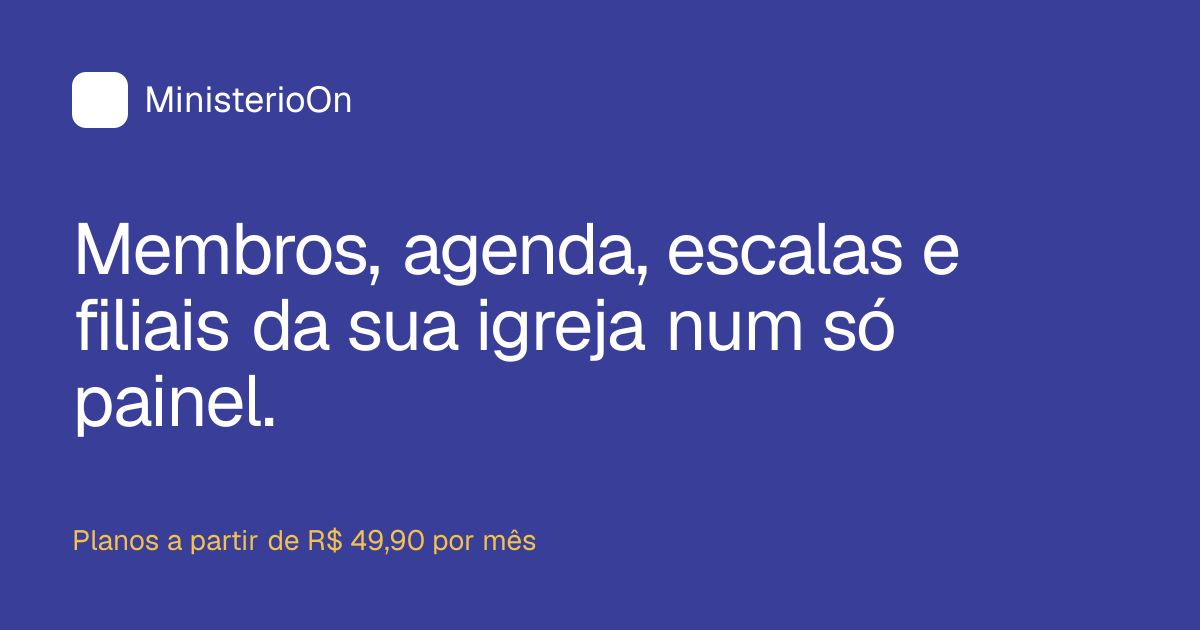
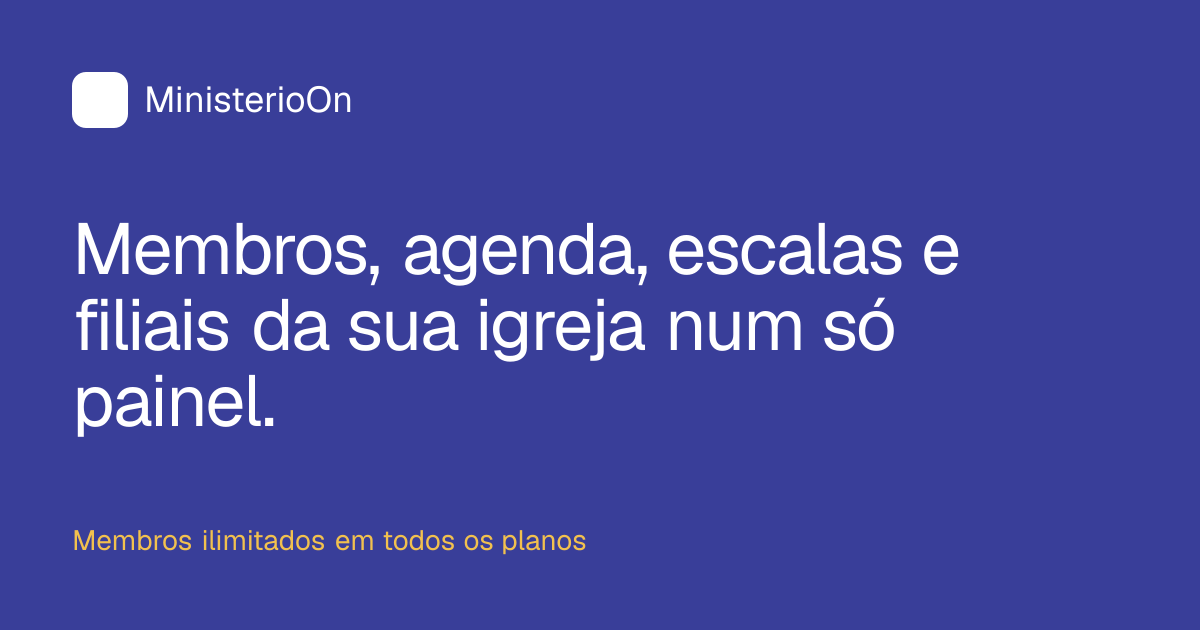
feat: aplica tabela oficial de planos (Starter, Pro, Premium, Enterprise)
Preços por ciclo, limites de administradores e filiais e taxas de implantação conforme tabela_precos_ministerioon.pdf.

Changed region(s): [[0.0617, 0.8444, 0.4933, 0.8746]]

diff --git a/src/components/Pricing.tsx b/src/components/Pricing.tsx
@@ -2,10 +2,24 @@
 
 import { useState } from "react";
 import { Check } from "lucide-react";
-import { brl, cycles, perMonth, plans, savingsPct, type Cycle } from "@/lib/plans";
+import { brl, cycles, perMonth, plans, savingsPct, type Cycle, type Plan } from "@/lib/plans";
 import { track } from "@/lib/analytics";
 import { whatsappUrl } from "@/lib/whatsapp";
 import { WhatsAppIcon } from "./WhatsAppButton";
+
+function limitText(n: number | "ilimitado", one: string, many: string) {
+  if (n === "ilimitado") return `${many[0].toUpperCase()}${many.slice(1)} ilimitados`;
+  if (n === 0) return `Sem ${many}`;
+  return `${n} ${n === 1 ? one : many}`;
+}
+
+function features(plan: Plan) {
+  return [
+    "Membros ilimitados",
+    limitText(plan.admins, "administrador", "administradores"),
+    plan.branches === 0 ? "Uma unidade (sem filiais)" : limitText(plan.branches, "filial ou congregação", "filiais ou congregações"),
+  ];
+}
 
 export function Pricing() {
   const [cycle, setCycle] = useState<Cycle>("anual");
@@ -27,7 +41,7 @@ export function Pricing() {
                   onChange={() => setCycle(c.id)}
                   className="peer sr-only"
                 />
-                <span className="block rounded-full px-2 py-2 text-[13px] sm:px-4 sm:text-sm font-semibold text-ink-soft transition-colors peer-checked:bg-indigo peer-checked:text-white peer-focus-visible:outline-3 peer-focus-visible:outline-gold">
+                <span className="block rounded-full px-2 py-2 text-[13px] font-semibold text-ink-soft transition-colors peer-checked:bg-indigo peer-checked:text-white peer-focus-visible:outline-3 peer-focus-visible:outline-gold sm:px-4 sm:text-sm">
                   {c.label}
                 </span>
               </label>
@@ -35,47 +49,65 @@ export function Pricing() {
           </div>
         </fieldset>
         <p className="text-sm text-ink-soft" aria-live="polite">
-          {cycle === "mensal"
-            ? "Pagamento mês a mês."
-            : `No ${cycleInfo.label.toLowerCase()} você paga ${savingsPct(plans[0], cycle)}% menos que no mensal.`}
+          {cycle === "mensal" ? "Pagamento mês a mês." : `Valor mensal equivalente no ciclo ${cycleInfo.label.toLowerCase()}.`}
         </p>
       </div>
 
-      <ul className="mt-8 grid gap-4 md:grid-cols-2 xl:grid-cols-5">
+      <ul className="mt-8 grid gap-4 md:grid-cols-2 xl:grid-cols-4">
         {plans.map((plan) => {
           const featured = Boolean(plan.highlight);
-          const total = plan.prices[cycle];
-          const msg = `Olá! Vim pelo site e tenho interesse no plano ${plan.name} (${cycleInfo.label.toLowerCase()}, ${brl(total)}). Pode me explicar os próximos passos?`;
+          const total = plan.prices?.[cycle];
+          const monthly = perMonth(plan, cycle);
+          const save = savingsPct(plan, cycle);
+          const msg = plan.prices
+            ? `Olá! Vim pelo site e tenho interesse no plano ${plan.name} (${cycleInfo.label.toLowerCase()}, ${brl(total!)}). Pode me explicar os próximos passos?`
+            : `Olá! Vim pelo site e quero uma proposta do plano ${plan.name} para a nossa rede de igrejas.`;
           const href = whatsappUrl(msg);
+          const label = plan.prices ? `Escolher ${plan.name}` : "Pedir proposta";
+          const muted = featured ? "text-white/75" : "text-ink-soft";
           return (
             <li
               key={plan.id}
-              className={`relative flex flex-col rounded-2xl p-6 xl:p-5 ${
+              className={`relative flex flex-col rounded-2xl p-6 ${
                 featured ? "bg-indigo text-white shadow-[0_30px_60px_-30px_rgba(57,62,153,0.8)]" : "bg-white ring-1 ring-line"
               }`}
             >
               {plan.highlight && (
-                <p className="mb-3 self-start rounded-full bg-gold px-3 py-1 text-xs font-bold text-ink">
-                  {plan.highlight}
-                </p>
+                <p className="mb-3 self-start rounded-full bg-gold px-3 py-1 text-xs font-bold text-ink">{plan.highlight}</p>
               )}
               <h3 className="display text-2xl font-bold">{plan.name}</h3>
-              <p className={`mt-2 min-h-[4.5rem] text-sm leading-relaxed ${featured ? "text-white/80" : "text-ink-soft"}`}>
-                {plan.forWho}
-              </p>
+              <p className={`mt-2 min-h-[3rem] text-sm leading-relaxed ${muted}`}>{plan.forWho}</p>
 
-              <div className="mt-5">
-                <p className="text-3xl font-extrabold whitespace-nowrap tabular-nums xl:text-[1.65rem]">
-                  {brl(perMonth(plan, cycle))}
-                  <span className={`text-sm font-medium ${featured ? "text-white/70" : "text-ink-soft"}`}>/mês</span>
-                </p>
-                <p className={`mt-1 text-xs ${featured ? "text-white/70" : "text-ink-soft"}`}>
-                  {cycle === "mensal" ? "Cobrança mensal" : `${brl(total)} a cada ${cycleInfo.months} meses`}
-                </p>
-                <p className={`mt-1 text-xs ${featured ? "text-white/70" : "text-ink-soft"}`}>
-                  {plan.setupFee ? `+ implantação única de ${brl(plan.setupFee)}` : "Sem taxa de implantação"}
+              <div className="mt-5 min-h-[6.5rem]">
+                {monthly !== null && total !== undefined ? (
+                  <>
+                    <p className="text-3xl font-extrabold whitespace-nowrap tabular-nums">
+                      {brl(monthly)}
+                      <span className={`text-sm font-medium ${muted}`}>/mês</span>
+                    </p>
+                    <p className={`mt-1 text-xs ${muted}`}>
+                      {cycle === "mensal" ? "Cobrança mensal" : `${brl(total)} a cada ${cycleInfo.months} meses`}
+                      {save > 0 && <span className={featured ? "font-semibold text-gold" : "font-semibold text-ok"}> · {save}% a menos que no mensal</span>}
+                    </p>
+                  </>
+                ) : (
+                  <p className="text-3xl font-extrabold">Sob consulta</p>
+                )}
+                <p className={`mt-1 text-xs ${muted}`}>
+                  {plan.setupFee === 0
+                    ? "Implantação grátis"
+                    : `Implantação única ${plan.setupFeeFrom ? "a partir de " : "de "}${brl(plan.setupFee)}`}
                 </p>
               </div>
+
+              <ul className="mt-5 space-y-2 border-t border-current/10 pt-5 text-sm">
+                {features(plan).map((f) => (
+                  <li key={f} className="flex gap-2">
+                    <Check className={`mt-0.5 size-4 shrink-0 ${featured ? "text-gold" : "text-indigo"}`} aria-hidden="true" />
+                    {f}
+                  </li>
+                ))}
+              </ul>
 
               <div className="mt-auto pt-6">
                 {href ? (
@@ -85,17 +117,17 @@ export function Pricing() {
                     rel="noopener noreferrer"
                     className={`btn w-full px-3 text-sm whitespace-nowrap ${featured ? "btn-gold" : "btn-outline"}`}
                     onClick={() => {
-                      track("plan_select", { plan: plan.id, cycle, value: total });
+                      track("plan_select", { plan: plan.id, cycle, value: total ?? 0 });
                       track("whatsapp_click", { location: "pricing", plan: plan.id, cycle });
                     }}
                   >
                     <WhatsAppIcon className="size-4 shrink-0" />
-                    Escolher {plan.name}
+                    {label}
                     <span className="sr-only">(abre o WhatsApp em nova aba)</span>
                   </a>
                 ) : (
                   <span aria-disabled="true" className={`btn w-full px-3 text-sm whitespace-nowrap ${featured ? "btn-gold" : "btn-outline"}`}>
-                    Escolher {plan.name}
+                    {label}
                   </span>
                 )}
               </div>
@@ -106,9 +138,9 @@ export function Pricing() {
 
       <ul className="mt-6 grid gap-2 text-sm text-ink-soft sm:grid-cols-3">
         {[
+          "Membros ilimitados em todos os planos: o valor não sobe conforme a igreja cresce.",
           "Os módulos liberados variam conforme o plano. A equipe confirma o que entra no seu antes da contratação.",
           "Trocar para um plano maior é feito no próprio sistema, pagando só a diferença proporcional.",
-          "Reduções de plano valem a partir da próxima renovação, sem reembolso do período pago.",
         ].map((t) => (
           <li key={t} className="flex gap-2">
             <Check className="mt-0.5 size-4 shrink-0 text-indigo" aria-hidden="true" />

diff --git a/src/lib/plans.ts b/src/lib/plans.ts
@@ -1,6 +1,7 @@
 /**
- * Planos e valores conforme a tela "Atualizar Plano" do MinisterioOn (consultada em 26/11/2026).
- * Ao alterar preços no sistema, atualize aqui.
+ * Planos e valores conforme a "Tabela oficial de planos e tarifas" do Ministério On
+ * (tabela_precos_ministerioon.pdf, recebida em 26/11/2026).
+ * Ao alterar preços, atualize aqui.
  */
 
 export type Cycle = "mensal" | "trimestral" | "semestral" | "anual";
@@ -16,58 +17,76 @@ export type Plan = {
   id: string;
   name: string;
   forWho: string;
-  prices: Record<Cycle, number>;
-  setupFee?: number;
+  /** null = sob consulta */
+  prices: Record<Cycle, number> | null;
+  /** Taxa única de implantação. 0 = grátis. */
+  setupFee: number;
+  setupFeeFrom?: boolean;
+  admins: number | "ilimitado";
+  branches: number | "ilimitado";
   highlight?: string;
 };
 
 export const plans: Plan[] = [
   {
-    id: "essencial",
-    name: "Essencial",
-    forWho: "Para igrejas que estão começando a organizar membros, eventos e financeiro em um só lugar.",
-    prices: { mensal: 49.9, trimestral: 142.22, semestral: 269.46, anual: 508.98 },
+    id: "starter",
+    name: "Starter",
+    forWho: "Para a igreja de uma unidade que quer sair da planilha.",
+    prices: { mensal: 59.9, trimestral: 169.9, semestral: 329.9, anual: 599 },
+    setupFee: 0,
+    admins: 2,
+    branches: 0,
   },
   {
-    id: "basico",
-    name: "Básico",
-    forWho: "Organização diária da igreja com departamentos, relatórios e controle de usuários.",
-    prices: { mensal: 89.9, trimestral: 256.22, semestral: 485.46, anual: 916.98 },
-    setupFee: 299,
-  },
-  {
-    id: "gestao",
-    name: "Gestão",
-    forWho: "Gestão completa de ministérios, convidados e painéis por público.",
-    prices: { mensal: 149.9, trimestral: 427.22, semestral: 809.46, anual: 1528.98 },
-    setupFee: 399,
-  },
-  {
-    id: "profissional",
-    name: "Profissional",
-    forWho: "Para igrejas em multiplicação, com todos os painéis e liderança distribuída.",
-    prices: { mensal: 199, trimestral: 567.15, semestral: 1074.6, anual: 2029.8 },
+    id: "pro",
+    name: "Pro",
+    forWho: "Para a igreja que já tem congregações e uma equipe dividindo a secretaria.",
+    prices: { mensal: 149.9, trimestral: 429.9, semestral: 849.9, anual: 1499 },
+    setupFee: 199,
+    admins: 7,
+    branches: 2,
     highlight: "Para igrejas com filiais",
   },
   {
     id: "premium",
     name: "Premium",
-    forWho: "Todos os módulos, relatórios avançados, API e suporte prioritário. Usuários ilimitados.",
-    prices: { mensal: 299, trimestral: 852.15, semestral: 1614.6, anual: 3049.8 },
+    forWho: "Para a igreja em multiplicação, com liderança distribuída entre várias unidades.",
+    prices: { mensal: 299.9, trimestral: 849.9, semestral: 1699, anual: 2999 },
+    setupFee: 399,
+    admins: 15,
+    branches: 5,
+  },
+  {
+    id: "enterprise",
+    name: "Enterprise",
+    forWho: "Para redes e convenções com muitas unidades. Proposta sob medida.",
+    prices: null,
+    setupFee: 799,
+    setupFeeFrom: true,
+    admins: "ilimitado",
+    branches: "ilimitado",
   },
 ];
 
 export const brl = (v: number) =>
   v.toLocaleString("pt-BR", { style: "currency", currency: "BRL" });
 
-/** Economia real em relação a pagar o mesmo período no ciclo mensal. */
-export function savingsPct(plan: Plan, cycle: Cycle) {
+/** Valor mensal equivalente, truncado em centavos como na tabela oficial. */
+export function perMonth(plan: Plan, cycle: Cycle) {
+  if (!plan.prices) return null;
   const months = cycles.find((c) => c.id === cycle)!.months;
-  const monthlyTotal = plan.prices.mensal * months;
-  return Math.round((1 - plan.prices[cycle] / monthlyTotal) * 100);
+  // + 1e-6 evita erro de ponto flutuante (ex.: 299,90 virar 299,89).
+  return Math.floor((plan.prices[cycle] / months) * 100 + 1e-6) / 100;
 }
 
-export function perMonth(plan: Plan, cycle: Cycle) {
+/** Economia real em relação a pagar o mesmo período no ciclo mensal (arredondada para baixo). */
+export function savingsPct(plan: Plan, cycle: Cycle) {
+  if (!plan.prices) return 0;
   const months = cycles.find((c) => c.id === cycle)!.months;
-  return plan.prices[cycle] / months;
+  return Math.floor((1 - plan.prices[cycle] / (plan.prices.mensal * months)) * 100);
 }
+
+/** Menor valor mensal equivalente entre os planos com preço (Starter anual). */
+export const lowestMonthly = Math.min(
+  ...plans.filter((p) => p.prices).map((p) => perMonth(p, "anual") as number),
+);

diff --git a/src/app/page.tsx b/src/app/page.tsx
@@ -83,11 +83,11 @@ const units = [
 const faq = [
   {
     q: "Nossa igreja é pequena. Faz sentido para nós?",
-    a: "O plano Essencial foi pensado para igrejas que estão começando a organizar membros, eventos e financeiro em um só lugar. No ciclo anual ele sai por R$ 508,98, o que dá cerca de R$ 1,39 por dia. Se a igreja crescer, você muda de plano dentro do próprio sistema.",
+    a: "O plano Starter foi pensado para a igreja de uma unidade: membros ilimitados, 2 administradores e implantação grátis. No ciclo anual ele sai por R$ 599,00, cerca de R$ 1,64 por dia. Se a igreja crescer, você muda de plano dentro do próprio sistema.",
   },
   {
     q: "Temos sede e filiais. Cada uma precisa de uma conta separada?",
-    a: "Não. O MinisterioOn trabalha com matriz e filiais vinculadas. A Central de Filiais mostra membros, ativos e pendências de cada unidade, e a liderança pode filtrar o painel por unidade ou ver a rede toda.",
+    a: "Não. O MinisterioOn trabalha com matriz e filiais vinculadas na mesma conta. O plano Pro inclui até 2 filiais ou congregações, o Premium até 5 e o Enterprise não tem limite. A Central de Filiais mostra membros, ativos e pendências de cada unidade.",
   },
   {
     q: "Nosso secretário não é da área de tecnologia. Vai conseguir usar?",
@@ -172,8 +172,8 @@ export default function Home() {
                 </a>
               </div>
               <p className="mt-4 max-w-md text-sm text-white/75">
-                Você fala com uma pessoa da equipe, tira as dúvidas e só contrata se fizer sentido. Planos a partir de
-                R$ 49,90 por mês.
+                Você fala com uma pessoa da equipe, tira as dúvidas e só contrata se fizer sentido. Membros ilimitados
+                em todos os planos, a partir de R$ 49,91 por mês no plano anual.
               </p>
               <ul className="mt-8 grid gap-2.5 text-sm text-white/85 sm:grid-cols-3 sm:gap-4">
                 {[
@@ -423,9 +423,9 @@ export default function Home() {
               Um plano para o tamanho da sua igreja hoje, com espaço para crescer.
             </h2>
             <p className="mt-5 max-w-2xl text-lg leading-relaxed text-ink-soft">
-              Valores por igreja, não por membro. Escolha o ciclo de pagamento: quanto mais longo, menor o valor por mês.
+              Valores por igreja, não por membro: todos os planos têm membros ilimitados. O que muda entre eles é o número de administradores e de filiais. Quanto mais longo o ciclo de pagamento, menor o valor por mês.
             </p>
-            <div className="mt-10 xl:-mx-10">
+            <div className="mt-10">
               <Pricing />
             </div>
           </div>
@@ -507,7 +507,7 @@ export default function Home() {
                   "Membros, visitantes e famílias em fichas atualizadas",
                   "Agenda, escalas e EBD num calendário que todos consultam",
                   "Sede e filiais acompanhadas no mesmo painel",
-                  "Planos a partir de R$ 49,90 por mês",
+                  "Membros ilimitados, a partir de R$ 49,91 por mês no plano anual",
                 ].map((t) => (
                   <li key={t} className="flex gap-3">
                     <Check className="mt-0.5 size-5 shrink-0 text-gold" aria-hidden="true" />

diff --git a/src/app/layout.tsx b/src/app/layout.tsx
@@ -14,7 +14,7 @@ const sans = Inter({ subsets: ["latin"], variable: "--font-inter", display: "swa
 
 const title = "MinisterioOn: sistema de gestão para igrejas com matriz e filiais";
 const description =
-  "Membros, visitantes, agenda, escalas, células, patrimônio e relatórios da sua igreja em um só painel, da sede a cada filial. Planos a partir de R$ 49,90 por mês.";
+  "Membros, visitantes, agenda, escalas, células, patrimônio e relatórios da sua igreja em um só painel, da sede a cada filial. Membros ilimitados em todos os planos.";
 
 export const metadata: Metadata = {
   metadataBase: new URL(site.url),
@@ -48,7 +48,7 @@ const jsonLd = {
   applicationCategory: "BusinessApplication",
   operatingSystem: "Web",
   description,
-  offers: { "@type": "AggregateOffer", priceCurrency: "BRL", lowPrice: "49.90", highPrice: "299.00", offerCount: 5 },
+  offers: { "@type": "AggregateOffer", priceCurrency: "BRL", lowPrice: "59.90", highPrice: "299.90", offerCount: 3 },
 };
 
 export default function RootLayout({ children }: { children: React.ReactNode }) {

diff --git a/README.md b/README.md
@@ -49,14 +49,14 @@ Itens pendentes em `src/lib/config.ts`:
 
 Tudo o que está na página foi tirado do próprio sistema, no ambiente de homologação, em 26/11/2026:
 
-- **Planos e preços**: tela "Atualizar Plano". Valores em `src/lib/plans.ts`. As economias por ciclo (5%, 10%, 15%) são calculadas a partir desses valores.
+- **Planos e preços**: "Tabela oficial de planos e tarifas" (`tabela_precos_ministerioon.pdf`, recebida em 26/11/2026). Os planos são Starter, Pro, Premium e Enterprise, com limites de administradores e filiais, taxa de implantação e valores por ciclo. Tudo está em `src/lib/plans.ts`. O valor mensal equivalente é truncado nos centavos, como na tabela. A economia exibida em cada plano é calculada a partir dos valores e arredondada para baixo.
 - **Módulos**: menu lateral do sistema. A página avisa que os módulos variam conforme o plano.
 - **Upgrade proporcional e downgrade na renovação**: textos da tela de planos.
 - **Central de Ajuda e chamados**: tela `/central-ajuda/`.
 
 Os painéis mostrados na página são reproduções em HTML, com dados fictícios e legenda informando isso. Nenhum número, cliente, depoimento ou garantia foi inventado.
 
-Ainda não confirmado, e por isso fora da página: teste grátis, garantia, fidelidade e multa, prazo de implantação, limite de usuários de cada plano e preço do usuário adicional para todos os planos. Foi visto R$ 7,00/usuário/mês somente no plano Profissional.
+Ainda não confirmado, e por isso fora da página: teste grátis, garantia, fidelidade e multa, prazo de implantação, preço de administrador extra além do limite do plano e quais módulos entram em cada plano.
 
 ## Eventos de medição
 
